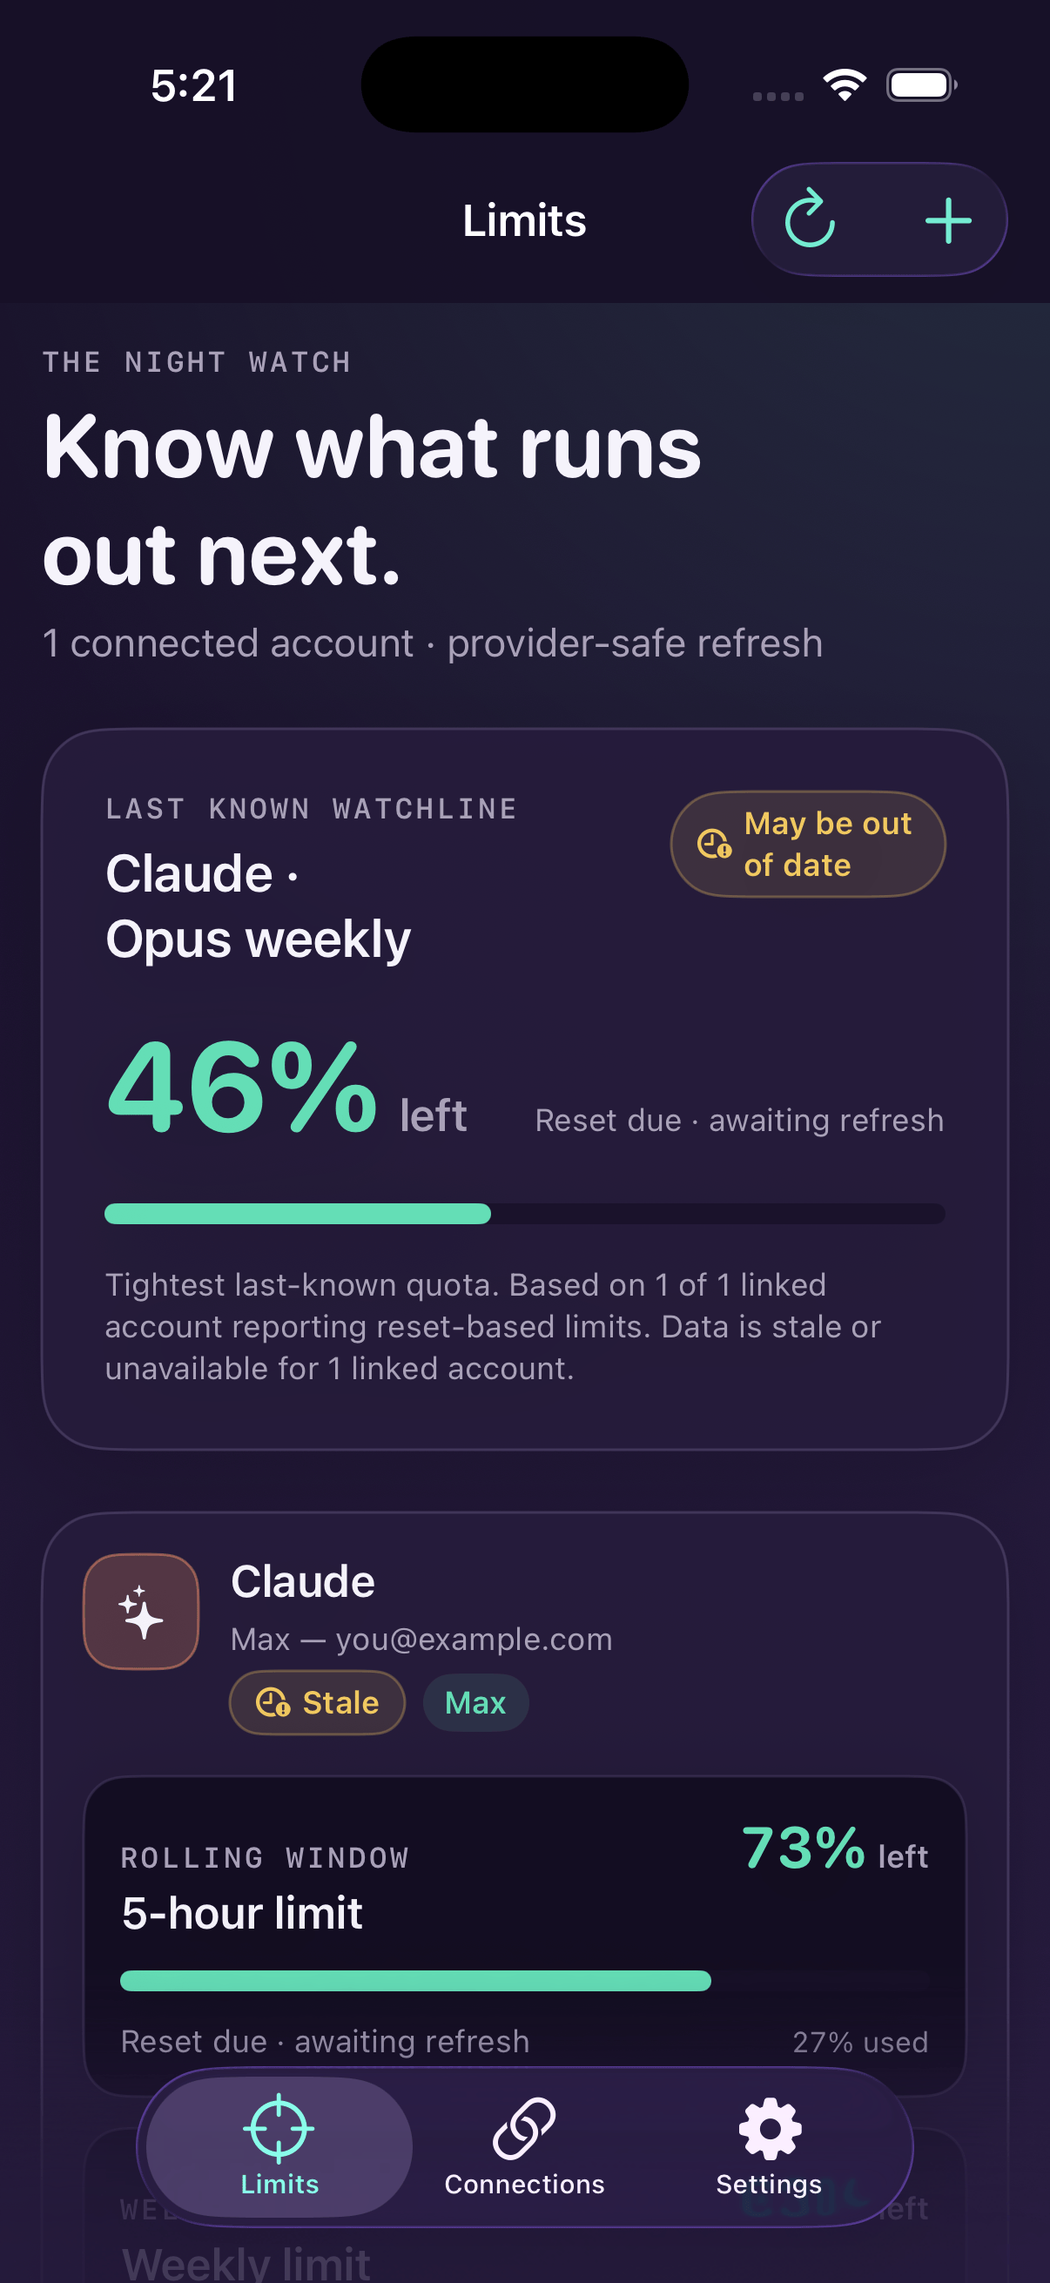
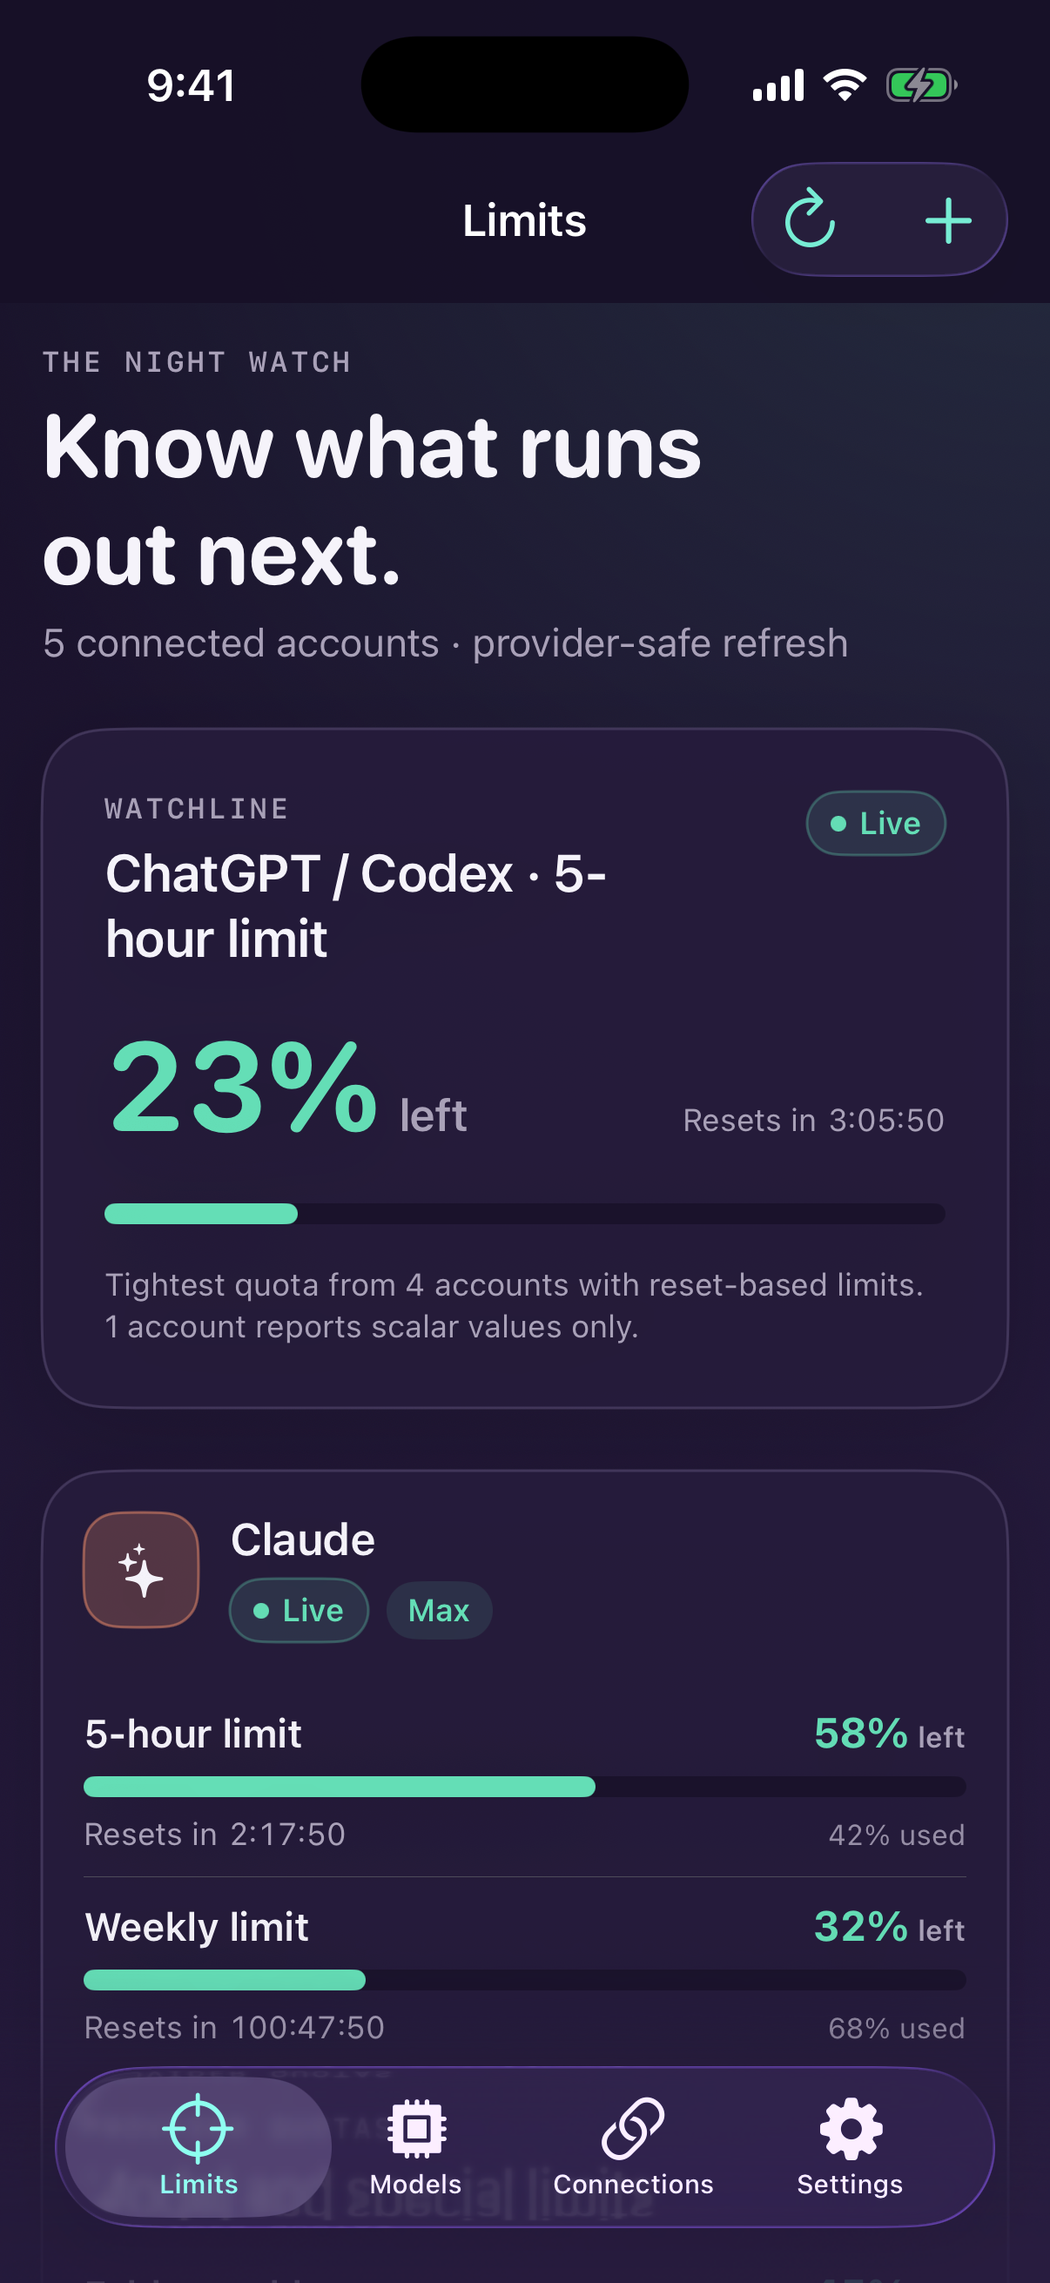
Fix Fable naming + refresh README screenshots to the current UI
"Claire" is not a Claude model — Fable is. Corrected the one stray copy
string in the Models view empty state (the weekly_scoped windows and
fixtures already used Fable correctly).

The README screenshots predated the stacked limit meters and the Models
view. Replaced them with current captures — the Limits dashboard
(Watchline + per-account stacked session/weekly meters with live reset
countdowns) and the new Models view (per-model caps: Fable weekly, Opus
weekly, GPT-5.6 Sol, MiniMax video lanes, tightest first) — and dropped
the stale empty-state image.

To capture accurate shots from a fresh simulator with no credentials,
adds a tightly-gated demo seed: DemoData + AppModel wiring behind
VIGIL_DEMO=1 (representative accounts, never written to disk, never
fetched) and a VIGIL_TAB launch override to preselect a tab. Both are
production-inert and covered by DemoDataTests (the gate is only ever on
for an exact VIGIL_DEMO=1). Marked kimi_code in the app's experimental
set assertion.

Version bump to 0.13.0 (8). Gates green: CLI 163, VigilKit 89, VigilTests
app suite, iOS + macOS builds.

diff --git a/apps/apple/Vigil/Support/DemoData.swift b/apps/apple/Vigil/Support/DemoData.swift
@@ -1,0 +1,141 @@
+import Foundation
+import VigilKit
+
+/// Screenshot-only sample data, gated behind the `VIGIL_DEMO=1` launch
+/// environment so a real launch never sees it. A fresh install has no
+/// credentials in the Keychain, so it can only ever render the empty state —
+/// which cannot show the Watchline, the stacked limit meters, or the Models
+/// view. This seeds one representative account per surface so the README / App
+/// Store screenshots reflect the shipping UI. The numbers are internally
+/// consistent (percentages and resets a real account could report), never
+/// inflated to look busier than the product is.
+enum DemoData {
+    /// True only for an exact `VIGIL_DEMO=1`. Anything else — absent, empty,
+    /// "true", "0" — is off, so the flag can never be tripped by accident.
+    static func requested(in environment: [String: String]) -> Bool {
+        environment["VIGIL_DEMO"] == "1"
+    }
+
+    static func seed(
+        now: Date = Date()
+    ) -> (accounts: [AccountRef], snapshots: [String: ProviderSnapshot]) {
+        var accounts: [AccountRef] = []
+        var snapshots: [String: ProviderSnapshot] = [:]
+
+        func add(_ account: AccountRef, _ snapshot: ProviderSnapshot) {
+            accounts.append(account)
+            snapshots[account.key] = snapshot
+        }
+
+        func window(
+            _ id: String,
+            _ utilization: Double,
+            resetsIn seconds: TimeInterval,
+            windowSeconds: Int,
+            secondary: Bool = false,
+            label: String? = nil
+        ) -> UsageWindow {
+            UsageWindow(
+                id: id,
+                utilization: utilization,
+                resetsAt: now.addingTimeInterval(seconds),
+                windowSeconds: windowSeconds,
+                secondary: secondary,
+                label: label
+            )
+        }
+
+        let hour: TimeInterval = 3_600
+        let day: TimeInterval = 86_400
+        let session = 18_000
+        let weekly = 604_800
+
+        // Claude, Max plan — session + weekly plus model-scoped weeklies and an
+        // overage-credits metric. Drives the Watchline and the Models view.
+        let claude = AccountRef(key: "claude:demo", providerId: "claude", label: nil, plan: "Max")
+        add(claude, ProviderSnapshot(
+            providerId: "claude",
+            accountKey: claude.key,
+            accountLabel: nil,
+            planLabel: "Max",
+            fetchedAt: now.addingTimeInterval(-90),
+            status: .ok,
+            windows: [
+                window("session", 42, resetsIn: 2.3 * hour, windowSeconds: session),
+                window("weekly", 68, resetsIn: 4.2 * day, windowSeconds: weekly),
+                window("weekly_scoped_fable", 55, resetsIn: 5 * day, windowSeconds: weekly, secondary: true, label: "Fable"),
+                window("weekly_scoped_opus", 33, resetsIn: 5 * day, windowSeconds: weekly, secondary: true, label: "Opus"),
+            ],
+            metrics: [
+                UsageMetric(id: "extra_used", label: "Overage credits", kind: .spend, value: 4.20, unit: "USD", secondary: true),
+            ]
+        ))
+
+        // ChatGPT / Codex, Plus plan — session + weekly plus a per-model lane.
+        let codex = AccountRef(key: "codex:demo", providerId: "codex", label: nil, plan: "Plus")
+        add(codex, ProviderSnapshot(
+            providerId: "codex",
+            accountKey: codex.key,
+            accountLabel: nil,
+            planLabel: "Plus",
+            fetchedAt: now.addingTimeInterval(-120),
+            status: .ok,
+            windows: [
+                window("session", 77, resetsIn: 3.1 * hour, windowSeconds: session),
+                window("weekly", 44, resetsIn: 5 * day, windowSeconds: weekly),
+                window("gpt-5-codex-spark", 21, resetsIn: 5 * day, windowSeconds: weekly, secondary: true, label: "GPT-5.6 Sol"),
+            ]
+        ))
+
+        // MiniMax Coding Plan — general session/weekly plus the video lanes.
+        let minimax = AccountRef(key: "minimax:demo", providerId: "minimax", label: nil, plan: "Coding Plan")
+        add(minimax, ProviderSnapshot(
+            providerId: "minimax",
+            accountKey: minimax.key,
+            accountLabel: nil,
+            planLabel: "Coding Plan",
+            fetchedAt: now.addingTimeInterval(-200),
+            status: .ok,
+            windows: [
+                window("session", 18, resetsIn: 2 * hour, windowSeconds: session),
+                window("weekly", 61, resetsIn: 6 * day, windowSeconds: weekly),
+                window("session_video", 12, resetsIn: 2 * hour, windowSeconds: session, secondary: true),
+                window("weekly_video", 39, resetsIn: 6 * day, windowSeconds: weekly, secondary: true),
+            ]
+        ))
+
+        // Kimi K3 coding plan — the new session + weekly windows.
+        let kimi = AccountRef(key: "kimi_code:demo", providerId: "kimi_code", label: nil, plan: nil)
+        add(kimi, ProviderSnapshot(
+            providerId: "kimi_code",
+            accountKey: kimi.key,
+            accountLabel: nil,
+            planLabel: nil,
+            fetchedAt: now.addingTimeInterval(-60),
+            status: .ok,
+            windows: [
+                window("session", 48, resetsIn: 3.5 * hour, windowSeconds: session),
+                window("weekly", 29, resetsIn: 4 * day, windowSeconds: weekly),
+            ]
+        ))
+
+        // OpenRouter — a metric-only gateway: proves the account-metrics row.
+        let openrouter = AccountRef(key: "openrouter:demo", providerId: "openrouter", label: nil, plan: nil)
+        add(openrouter, ProviderSnapshot(
+            providerId: "openrouter",
+            accountKey: openrouter.key,
+            accountLabel: nil,
+            planLabel: nil,
+            fetchedAt: now.addingTimeInterval(-140),
+            status: .ok,
+            windows: [],
+            metrics: [
+                UsageMetric(id: "spend", label: "Spent", kind: .spend, value: 12.47, unit: "USD", secondary: false),
+                UsageMetric(id: "limit", label: "Credit limit", kind: .limit, value: 50, unit: "USD", secondary: true),
+                UsageMetric(id: "remaining", label: "Remaining", kind: .remaining, value: 37.53, unit: "USD", secondary: false),
+            ]
+        ))
+
+        return (accounts, snapshots)
+    }
+}

diff --git a/apps/apple/VigilTests/DemoDataTests.swift b/apps/apple/VigilTests/DemoDataTests.swift
@@ -1,0 +1,68 @@
+import Foundation
+import XCTest
+import VigilKit
+@testable import Vigil
+
+/// The demo seed exists only to render honest, representative screenshots for
+/// the README/App Store from a fresh simulator with no real credentials. These
+/// tests lock the gate (demo data must never appear in a real launch) and the
+/// shape (the seed has to populate the same surfaces a real account would — a
+/// tightest-window Watchline, per-model caps for the Models view, and a
+/// metric-only provider — or the screenshots would misrepresent the app).
+final class DemoDataTests: XCTestCase {
+    // MARK: - Gate: opt-in only, never on by accident
+
+    func testRequestedOnlyWhenEnvFlagIsExactlyOne() {
+        XCTAssertTrue(DemoData.requested(in: ["VIGIL_DEMO": "1"]))
+        XCTAssertFalse(DemoData.requested(in: [:]))
+        XCTAssertFalse(DemoData.requested(in: ["VIGIL_DEMO": "0"]))
+        XCTAssertFalse(DemoData.requested(in: ["VIGIL_DEMO": "true"]))
+        XCTAssertFalse(DemoData.requested(in: ["VIGIL_DEMO": ""]))
+    }
+
+    // MARK: - Shape: every surface a real account would fill
+
+    func testSeedKeysEverySnapshotToAnAccountAndStaysOk() {
+        let seed = DemoData.seed(now: Date(timeIntervalSince1970: 1_784_500_000))
+        XCTAssertFalse(seed.accounts.isEmpty, "an empty seed would screenshot as the empty state")
+        for account in seed.accounts {
+            let snapshot = seed.snapshots[account.key]
+            XCTAssertNotNil(snapshot, "\(account.key) has no snapshot — its card would render as never-fetched")
+            XCTAssertEqual(snapshot?.providerId, account.providerId)
+            XCTAssertEqual(snapshot?.status, .ok, "a degraded status would show an error chip in the shot")
+        }
+        XCTAssertEqual(
+            Set(seed.snapshots.keys),
+            Set(seed.accounts.map(\.key)),
+            "orphan snapshots key to no account and would be dropped from every surface"
+        )
+    }
+
+    func testSeedPopulatesTheModelsViewWithLabeledPerModelCaps() {
+        let seed = DemoData.seed(now: Date(timeIntervalSince1970: 1_784_500_000))
+        let candidates = UsagePresentation.modelLimits(
+            accounts: seed.accounts,
+            snapshots: seed.snapshots
+        )
+        XCTAssertGreaterThanOrEqual(
+            candidates.count, 2,
+            "the Models tab is the headline of this release — its screenshot must not be empty"
+        )
+        let labels = candidates.compactMap { $0.window.label }
+        XCTAssertTrue(
+            labels.contains("Fable"),
+            "the flagship model caps (e.g. Fable) are the reason the Models view exists"
+        )
+    }
+
+    func testSeedIncludesAMetricOnlyProviderSoTheMetricsSectionShows() {
+        let seed = DemoData.seed(now: Date(timeIntervalSince1970: 1_784_500_000))
+        let metricOnly = seed.snapshots.values.first {
+            $0.windows.isEmpty && !$0.metrics.isEmpty
+        }
+        XCTAssertNotNil(
+            metricOnly,
+            "a spend/balance provider proves the account-metrics row renders in the shot"
+        )
+    }
+}

diff --git a/apps/apple/Vigil/AppModel.swift b/apps/apple/Vigil/AppModel.swift
@@ -26,6 +26,10 @@ final class AppModel {
     /// durable when it is not.
     private(set) var storageErrorMessage: String?
     private(set) var accountIndexUsable = true
+    /// True when launched with `VIGIL_DEMO=1` (screenshot tooling only). In demo
+    /// mode the accounts are seeded in memory and never fetched, so the seeded
+    /// snapshots aren't overwritten by auth failures (there are no credentials).
+    private(set) var isDemo = false
 
     let vault: any CredentialsStore
     let scheduler: FetchScheduler
@@ -61,6 +65,18 @@ final class AppModel {
         self.lockEnabled = UserDefaults.standard.bool(forKey: "app.vigil.lockEnabled")
         loadFromDisk()
         surfaceSharedStorageFallbackIfNeeded()
+        seedDemoDataIfRequested()
+    }
+
+    /// Screenshot tooling: with `VIGIL_DEMO=1`, replace the (empty on a fresh
+    /// install) in-memory state with representative sample data. Nothing is
+    /// written to disk and no fetch runs, so this cannot leak into real usage.
+    private func seedDemoDataIfRequested() {
+        guard DemoData.requested(in: ProcessInfo.processInfo.environment) else { return }
+        isDemo = true
+        let demo = DemoData.seed()
+        accounts = demo.accounts
+        snapshots = demo.snapshots
     }
 
     /// The App Group container being unavailable silently disables the
@@ -72,6 +88,7 @@ final class AppModel {
     private func surfaceSharedStorageFallbackIfNeeded() {
         guard NSClassFromString("XCTestCase") == nil,
               ProcessInfo.processInfo.environment["XCODE_RUNNING_FOR_PREVIEWS"] != "1",
+              !DemoData.requested(in: ProcessInfo.processInfo.environment),
               SharedContainer.isUsingFallbackStorage
         else { return }
         reportStorageError(
@@ -469,6 +486,7 @@ final class AppModel {
     /// Ledger-gated refresh of every account. Safe to call aggressively —
     /// the scheduler enforces the real polling budget.
     func refreshAll(surface: String) async {
+        guard !isDemo else { return }
         await withTaskGroup(of: Void.self) { group in
             for account in accounts {
                 group.addTask { await self.refresh(account: account, surface: surface) }
@@ -477,6 +495,7 @@ final class AppModel {
     }
 
     func refresh(account: AccountRef, surface: String) async {
+        guard !isDemo else { return }
         let credentials: Credentials
         do {
             guard let loaded = try vault.load(accountKey: account.key) else {

diff --git a/apps/apple/Vigil/RootView.swift b/apps/apple/Vigil/RootView.swift
@@ -30,6 +30,12 @@ private enum VigilDestination: String, CaseIterable, Identifiable {
 struct RootView: View {
     #if os(macOS)
     @State private var selection: VigilDestination? = .limits
+    #else
+    /// Default `.limits`; the `VIGIL_TAB` launch environment can preselect a
+    /// tab so screenshot tooling captures a specific screen deterministically.
+    @State private var selection: VigilDestination = VigilDestination(
+        rawValue: ProcessInfo.processInfo.environment["VIGIL_TAB"] ?? ""
+    ) ?? .limits
     #endif
 
     var body: some View {
@@ -77,13 +83,14 @@ struct RootView: View {
         }
         .navigationSplitViewStyle(.balanced)
         #else
-        TabView {
+        TabView(selection: $selection) {
             NavigationStack {
                 DashboardView()
             }
             .tabItem {
                 Label(VigilDestination.limits.title, systemImage: VigilDestination.limits.symbol)
             }
+            .tag(VigilDestination.limits)
 
             NavigationStack {
                 ModelsView()
@@ -91,6 +98,7 @@ struct RootView: View {
             .tabItem {
                 Label(VigilDestination.models.title, systemImage: VigilDestination.models.symbol)
             }
+            .tag(VigilDestination.models)
 
             NavigationStack {
                 ConnectionsView()
@@ -101,6 +109,7 @@ struct RootView: View {
                     systemImage: VigilDestination.connections.symbol
                 )
             }
+            .tag(VigilDestination.connections)
 
             NavigationStack {
                 SettingsView()
@@ -111,6 +120,7 @@ struct RootView: View {
                     systemImage: VigilDestination.settings.symbol
                 )
             }
+            .tag(VigilDestination.settings)
         }
         .tint(VigilPalette.signal)
         #endif

diff --git a/apps/apple/Vigil/Dashboard/ModelsView.swift b/apps/apple/Vigil/Dashboard/ModelsView.swift
@@ -79,7 +79,7 @@ struct ModelsView: View {
                 Text("No model-specific limits yet")
                     .font(.title3.weight(.semibold))
                     .foregroundStyle(VigilPalette.ink)
-                Text("Vigil shows each provider's own model caps by name — Claude's per-model weekly limits (Fable, Claire, …), Codex's per-model lanes (e.g. GPT-5.6 Sol), Kimi K3's coding-plan session and weekly caps, and MiniMax's video quota — as your account reports them.")
+                Text("Vigil shows each provider's own model caps by name — Claude's per-model weekly limits (Fable, Opus, Sonnet …), Codex's per-model lanes (e.g. GPT-5.6 Sol), Kimi K3's coding-plan session and weekly caps, and MiniMax's video quota — as your account reports them.")
                     .font(.caption)
                     .foregroundStyle(VigilPalette.inkMuted)
                     .fixedSize(horizontal: false, vertical: true)

diff --git a/apps/apple/VigilTests/ProviderPresentationTests.swift b/apps/apple/VigilTests/ProviderPresentationTests.swift
@@ -78,7 +78,7 @@ final class ProviderPresentationTests: XCTestCase {
     func testExperimentalFlagCoversExactlyTheUnverifiedIntegrations() {
         XCTAssertEqual(
             Set(ProviderRegistry.all.filter(\.experimental).map(\.id)),
-            ["xai", "zai", "cursor"],
+            ["xai", "zai", "cursor", "kimi_code"],
             "Experimental marks community-documented endpoints — vendor-supported providers must never carry it"
         )
     }

diff --git a/CHANGELOG.md b/CHANGELOG.md
@@ -4,6 +4,26 @@
 
 Anything that changes shipped behavior gets an entry here: `vigil-link` npm versions, TestFlight app builds, and protocol or registry changes that affect both. Provider-schema and local-state migration notes are recorded per release so an existing installation can be upgraded deliberately.
 
+## 0.13.0 (8) — TestFlight internal, 2026-07-20
+
+Polish pass on the Models release:
+
+- **Correct flagship model naming.** The Models view empty-state copy named a
+  non-existent "Claire" Claude model; it now reads the real family (Fable, Opus,
+  Sonnet). Fable is Claude's flagship — the labeled `weekly_scoped_*` windows
+  and fixtures already used it correctly; this was the one stray copy string.
+- **Fresh, accurate README screenshots.** The old shots predated the redesigned
+  stacked limit meters and the Models view. Replaced them with current captures:
+  the Limits dashboard (Watchline + per-account stacked session/weekly meters
+  with live countdowns) and the new Models view (per-model caps — Fable weekly,
+  Opus weekly, GPT-5.6 Sol, MiniMax video lanes — tightest first). Dropped the
+  stale empty-state image.
+- **Screenshot tooling (`VIGIL_DEMO` / `VIGIL_TAB`).** A tightly-gated,
+  production-inert demo seed (`DemoData`) populates representative accounts and a
+  preselected tab so screenshots can be captured from a fresh simulator with no
+  credentials. It never writes to disk, never fetches, and is off unless
+  `VIGIL_DEMO=1` — locked down by tests.
+
 ## 0.13.0 (7) — TestFlight internal, 2026-07-20
 
 Adds the flagship coding-plan monitor requested alongside the Models view:

diff --git a/README.md b/README.md
@@ -32,9 +32,9 @@ Vigil is built around the three things that make a monitor trustworthy:
 3. **On-device only.** Credentials live in your device's Keychain and nowhere else. No servers, no analytics. See [docs/privacy.md](docs/privacy.md).
 
 <p align="center">
-  <img src="docs/assets/screenshot-dashboard.png" width="280" alt="Limits dashboard with Watchline, explicit percent left, reset timing, and inline model quotas" />
+  <img src="docs/assets/screenshot-dashboard.png" width="280" alt="Vigil Limits dashboard: a Watchline highlighting the tightest quota across accounts, then per-account cards with stacked session and weekly meter bars, percent left, and live reset countdowns" />
   &nbsp;&nbsp;
-  <img src="docs/assets/screenshot-empty.png" width="280" alt="Vigil empty state with pair or add account action" />
+  <img src="docs/assets/screenshot-models.png" width="280" alt="Vigil Models view: every provider's per-model cap gathered into one tightest-first list — Fable weekly, Opus weekly, GPT-5.6 Sol, and MiniMax video lanes — each with percent left and a reset countdown" />
 </p>
 
 ## Getting started
